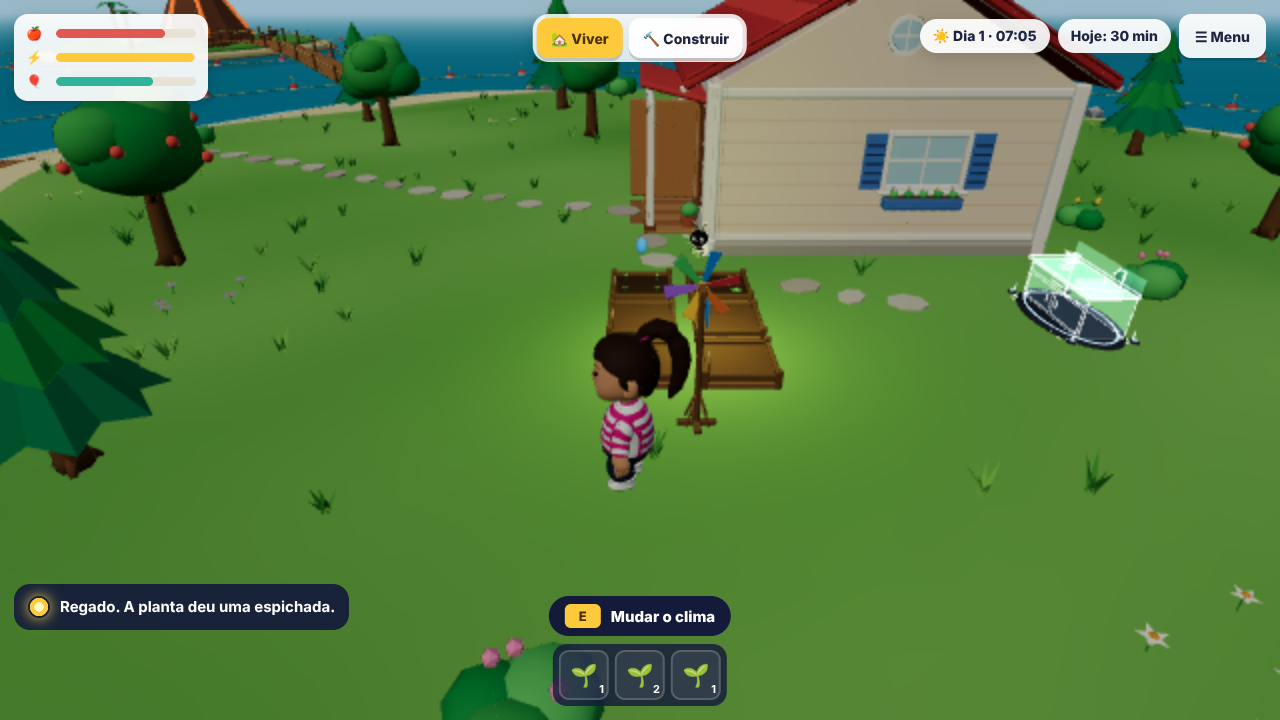
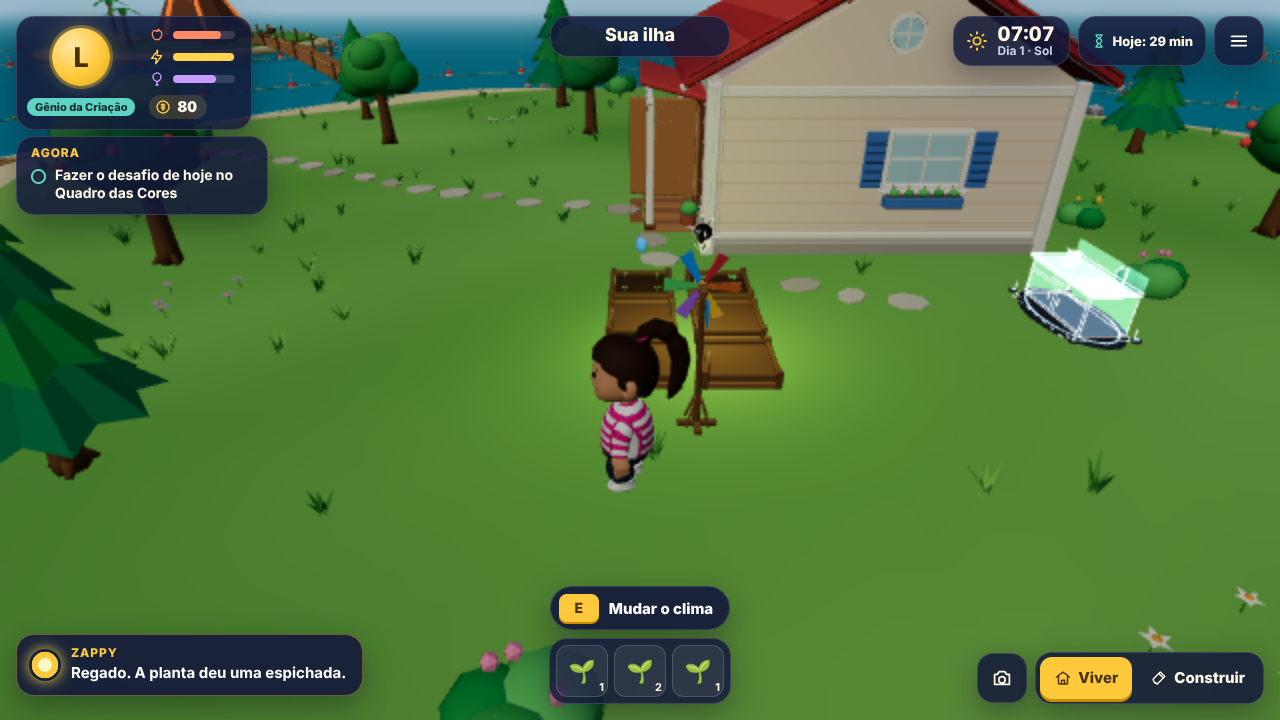
fix(arquipelago): artigo certo no nome das ilhas nas falas
"A ponte para o Vila Doce" e "para o Ilha das Nuvens" apareciam no balão do
Zappy ao abrir uma ponte. A regra do artigo, que só a luneta usava, virou
artigoDaIlha e serve à ponte, ao "Olhar em volta" e às duas vozes da luneta.
Teste com o artigo de cada ilha do anel. Print do cata-vento refeito com a
HUD nova.

Claude-Session: https://claude.ai/code/session_01TuSjUt4wC3mmYT1mb7PCif

diff --git a/packages/arquipelago/src/mundo/anel.tsx b/packages/arquipelago/src/mundo/anel.tsx
@@ -20,6 +20,7 @@ import { lojaDosDesafios, useDesafios } from '../estado/desafios'
 import { andarPedacos, corMedia, pedacosPintados } from '../sistemas/cor-da-ilha'
 import { BOIAS_DA_ILHA_DO_ANEL, RODA_DA_ILHA_CENTRAL } from '../sistemas/correnteza'
 import { completaColide, completaNaCena, type EstadoDaIlha } from '../sistemas/ilhas-completas'
+import { artigoDaIlha } from '../sistemas/luneta'
 import { quadrosDaIlha } from '../sistemas/quadro-das-cores'
 import { Boias } from './boias'
 import { BosqueVivo } from './bosque-vivo'
@@ -617,9 +618,11 @@ function useChegada(ilha: Ilha, aberta: boolean): number {
     if (aberta && !jaViu && progresso === 0) {
       loja
         .getState()
-        .dizer(`A ponte para o ${ilha.nome} ficou pronta. A cor começou a voltar para lá.`)
+        .dizer(
+          `A ponte para ${artigoDaIlha(ilha)} ${ilha.nome} ficou pronta. A cor começou a voltar para lá.`,
+        )
     }
-  }, [aberta, jaViu, progresso, ilha.nome, loja])
+  }, [aberta, jaViu, progresso, ilha, loja])
   useFrame(() => {
     if (progresso >= 1) return
     if (inicio.current === null) inicio.current = performance.now()
@@ -679,7 +682,7 @@ function IlhaComPonte({ ilha, centro }: { ilha: Ilha; centro: { x: number; z: nu
       loja
         .getState()
         .dizer(
-          `Este é o ${ilha.nome}. Os moradores e os bichos chegam aqui na próxima fase do jogo.`,
+          `${artigoDaIlha(ilha) === 'a' ? 'Esta é a' : 'Este é o'} ${ilha.nome}. Os moradores e os bichos chegam aqui na próxima fase do jogo.`,
         ),
   })
   return (

diff --git a/packages/arquipelago/tests/luneta.test.ts b/packages/arquipelago/tests/luneta.test.ts
@@ -6,10 +6,30 @@ import { GLTFLoader } from 'three/examples/jsm/loaders/GLTFLoader.js'
 import { soParaOCorpo } from '../src/mundo/colisores-da-ilha'
 import { COLISOR_DA_LUNETA, LUNETA, vistaDaLuneta } from '../src/mundo/luneta-medidas'
 import { PIER } from '../src/mundo/medidas'
-import { falaDaLuneta, ilhaDaLuneta, passoDaPrevia, recadoDaIris } from '../src/sistemas/luneta'
+import {
+  artigoDaIlha,
+  falaDaLuneta,
+  ilhaDaLuneta,
+  passoDaPrevia,
+  recadoDaIris,
+} from '../src/sistemas/luneta'
 import { criarPesos, passoDosPesos, perfilDaVez } from '../src/sistemas/perfis-de-camera'
 
 describe('luneta', () => {
+  test('cada ilha com o artigo do nome (a Vila Doce, a Ilha das Nuvens, o Bosque dos Bichos)', () => {
+    const artigos = Object.fromEntries(
+      ILHAS.filter((i) => i.angulo !== null).map((i) => [i.id, artigoDaIlha(i)]),
+    )
+    expect(artigos).toEqual({
+      bosque: 'o',
+      'vila-doce': 'a',
+      recife: 'o',
+      pico: 'o',
+      'vale-dos-dinos': 'o',
+      nuvens: 'a',
+    })
+  })
+
   test('mostra a primeira ilha ainda fechada e depois o Farol', () => {
     const esperadas = [
       'bosque',

diff --git a/packages/arquipelago/src/adulto/voz-adulta.ts b/packages/arquipelago/src/adulto/voz-adulta.ts
@@ -1,6 +1,7 @@
 import type { Ilha } from '@sistemazero/arquipelago-contracts'
 import type { VozDoJogo } from '../interface/voz'
 import { POSICAO_DO_MOLDA } from '../sistemas/construcao/projeto-azul'
+import { artigoDaIlha } from '../sistemas/luneta'
 
 /**
  * A voz do jogo na comunidade adulta: o mesmo formato da `VOZ_KIDS`, na voz do community
@@ -10,8 +11,7 @@ import { POSICAO_DO_MOLDA } from '../sistemas/construcao/projeto-azul'
  */
 function falaDaLuneta(ilha: Ilha): string {
   if (ilha.id === 'farol') return 'Lá está o Farol, ao lado da sua casa.'
-  const artigo = ilha.id === 'vila-doce' || ilha.id === 'nuvens' ? 'a' : 'o'
-  return `Lá é ${artigo} ${ilha.nome}. A ponte abre quando você chegar à etapa ${ilha.posicao} da sua jornada.`
+  return `Lá é ${artigoDaIlha(ilha)} ${ilha.nome}. A ponte abre quando você chegar à etapa ${ilha.posicao} da sua jornada.`
 }
 
 export const VOZ_ADULTA: VozDoJogo = {

diff --git a/packages/arquipelago/src/sistemas/luneta.ts b/packages/arquipelago/src/sistemas/luneta.ts
@@ -20,10 +20,14 @@ export function ilhaDaLuneta(posicao: number): Ilha {
   return proxima ?? ILHAS.find((i) => i.id === 'farol')!
 }
 
+/** O artigo do nome da ilha nas falas: "a Vila Doce", "a Ilha das Nuvens", "o Bosque dos Bichos". */
+export function artigoDaIlha(ilha: Pick<Ilha, 'id'>): 'a' | 'o' {
+  return ilha.id === 'vila-doce' || ilha.id === 'nuvens' ? 'a' : 'o'
+}
+
 export function falaDaLuneta(ilha: Ilha): string {
   if (ilha.id === 'farol') return 'Lá está o Farol, ao lado da sua casa.'
-  const artigo = ilha.id === 'vila-doce' || ilha.id === 'nuvens' ? 'a' : 'o'
-  return `Lá é ${artigo} ${ilha.nome}. A ponte abre quando você chegar a ${NOMES_DOS_POSTOS[ilha.posto]}.`
+  return `Lá é ${artigoDaIlha(ilha)} ${ilha.nome}. A ponte abre quando você chegar a ${NOMES_DOS_POSTOS[ilha.posto]}.`
 }
 
 export function recadoDaIris(ilha: Ilha): string {
